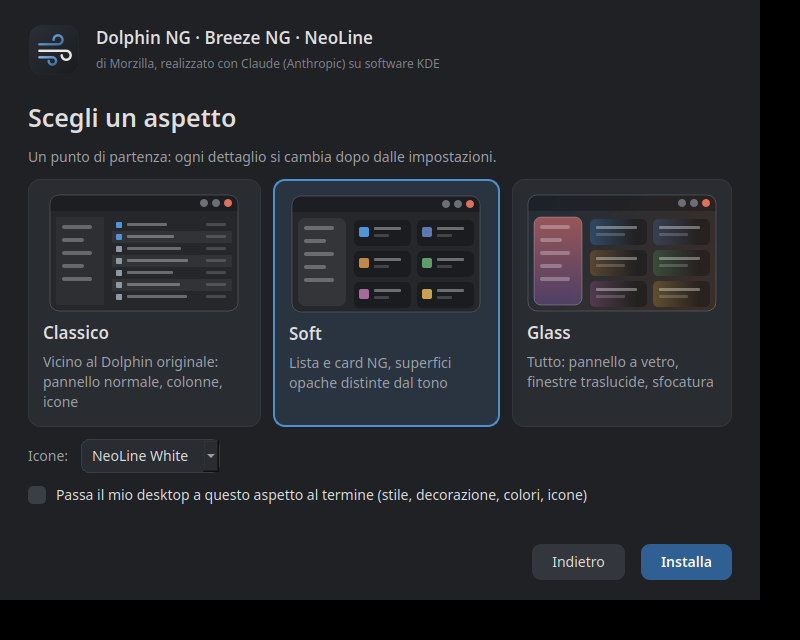
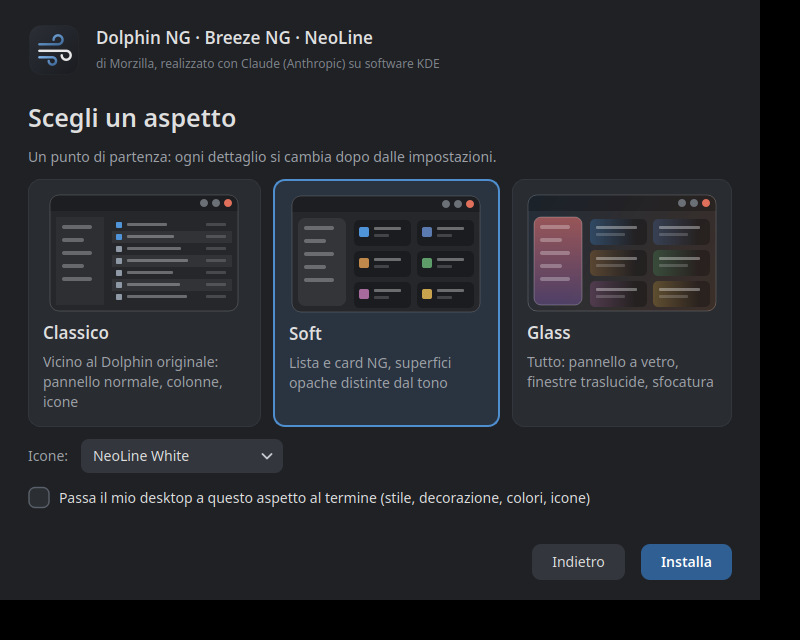
Installer: self-drawn check boxes, stepper and combo chevron (the style-sheet ones were broken)

Changed region(s): [[0.0625, 0.6875, 0.75, 0.8125]]

diff --git a/ng/install-gui.py b/ng/install-gui.py
@@ -100,10 +100,12 @@ QPushButton:disabled { color: #6f737a; background: #292c31; }
 QPushButton#primary { background: #2f5f93; color: white; font-weight: 600; }
 QPushButton#primary:hover { background: #3a71ab; }
 QPushButton#link { background: transparent; color: #7fb4ea; padding: 4px 6px; }
-QCheckBox { spacing: 10px; }
-QCheckBox::indicator { width: 18px; height: 18px; border-radius: 5px; background: #3a3e45; }
-QCheckBox::indicator:checked { background: #3f7fc0; image: none; border: 4px solid #3a3e45; }
-QComboBox, QSpinBox { background: #292c31; border: 1px solid #3a3e45; border-radius: 8px; padding: 5px 10px; }
+QCheckBox { spacing: 10px; background: transparent; }
+QPushButton#step { padding: 0; min-width: 30px; max-width: 30px; min-height: 30px; max-height: 30px; border-radius: 8px; font-size: 13pt; }
+QSpinBox { background: #292c31; border: 1px solid #3a3e45; border-radius: 8px; padding: 5px 6px; }
+QComboBox { background: #33373d; border: 0; border-radius: 8px; padding: 6px 12px; min-width: 150px; }
+QComboBox::drop-down { border: 0; width: 26px; }
+QComboBox::down-arrow { image: none; }
 QComboBox QAbstractItemView { background: #292c31; selection-background-color: #2f5f93; }
 QProgressBar { background: #292c31; border: 0; border-radius: 4px; height: 8px; }
 QProgressBar::chunk { background: #4f8fd0; border-radius: 4px; }
@@ -180,6 +182,57 @@ class Preview(QWidget):
                 p.setBrush(QColor(255, 255, 255, 45)); p.drawRoundedRect(QRectF(tx, cy + 14, cw - (tx - cx) - 22, 3), 1, 1)
         p.setClipping(False)
         p.setBrush(Qt.BrushStyle.NoBrush); p.setPen(QPen(QColor(255, 255, 255, 40), 1)); p.drawRoundedRect(r, 9, 9)
+
+
+class Check(QCheckBox):
+    """A check box that draws itself: a rounded box with a tick, the same under every widget style."""
+
+    def paintEvent(self, _):
+        p = QPainter(self)
+        p.setRenderHint(QPainter.RenderHint.Antialiasing)
+        side = 20
+        box = QRectF(1, (self.height() - side) / 2, side, side)
+        on = self.isChecked()
+        p.setPen(Qt.PenStyle.NoPen if on else QPen(QColor("#5a6069"), 1.4))
+        p.setBrush(QColor("#3f7fc0") if on else QColor("#2b2e33"))
+        p.drawRoundedRect(box, 6, 6)
+        if on:
+            tick = QPainterPath()
+            tick.moveTo(box.left() + 5, box.center().y() + 0.5)
+            tick.lineTo(box.left() + 8.6, box.bottom() - 5.6)
+            tick.lineTo(box.right() - 4.6, box.top() + 6)
+            pen = QPen(QColor("white"), 2.1)
+            pen.setCapStyle(Qt.PenCapStyle.RoundCap); pen.setJoinStyle(Qt.PenJoinStyle.RoundJoin)
+            p.setPen(pen); p.setBrush(Qt.BrushStyle.NoBrush); p.drawPath(tick)
+        p.setPen(QColor("#dfdfdf") if self.isEnabled() else QColor("#6f737a"))
+        p.setFont(self.font())
+        p.drawText(QRectF(side + 11, 0, self.width() - side - 11, self.height()), int(Qt.AlignmentFlag.AlignVCenter | Qt.AlignmentFlag.AlignLeft), self.text())
+        if self.hasFocus():
+            p.setPen(QPen(QColor("#4f8fd0"), 1.2)); p.setBrush(Qt.BrushStyle.NoBrush); p.drawRoundedRect(box.adjusted(-1.5, -1.5, 1.5, 1.5), 7, 7)
+
+    def sizeHint(self):
+        fm = self.fontMetrics()
+        return QSize(fm.horizontalAdvance(self.text()) + 36, max(24, fm.height() + 6))
+
+    minimumSizeHint = sizeHint
+
+    def hitButton(self, pos):
+        return self.rect().contains(pos)
+
+
+class Combo(QComboBox):
+    """A combo box with a chevron drawn by hand (the style sheet cannot draw one without an image file)."""
+
+    def paintEvent(self, e):
+        super().paintEvent(e)
+        p = QPainter(self)
+        p.setRenderHint(QPainter.RenderHint.Antialiasing)
+        pen = QPen(QColor("#c5c9cf"), 1.8)
+        pen.setCapStyle(Qt.PenCapStyle.RoundCap); pen.setJoinStyle(Qt.PenJoinStyle.RoundJoin)
+        p.setPen(pen)
+        cx, cy = self.width() - 16, self.height() / 2
+        path = QPainterPath(); path.moveTo(cx - 4.5, cy - 2); path.lineTo(cx, cy + 2.5); path.lineTo(cx + 4.5, cy - 2)
+        p.drawPath(path)
 
 
 class Card(QFrame):
@@ -270,16 +323,19 @@ class Installer(QWidget):
         self.parts = {}
         for key in ("dolphin", "breeze", "icons"):
             card = Card(); h = QVBoxLayout(card); h.setContentsMargins(16, 12, 16, 12); h.setSpacing(2)
-            box = QCheckBox(t(key)); box.setChecked(True); f = box.font(); f.setBold(True); box.setFont(f)
+            box = Check(t(key)); box.setChecked(True); f = box.font(); f.setBold(True); box.setFont(f)
             card.clicked.connect(box.toggle)
             h.addWidget(box); d = label(t(key + "_d"), "dim"); d.setContentsMargins(28, 0, 0, 0); h.addWidget(d)
             self.parts[key] = box
             v.addWidget(card)
-        self.deps = QCheckBox(t("deps")); self.deps.setChecked(True)
+        self.deps = Check(t("deps")); self.deps.setChecked(True)
         v.addSpacing(6); v.addWidget(self.deps)
         row = QHBoxLayout(); row.addWidget(label(t("jobs"), "dim", False))
         self.jobs = QSpinBox(); self.jobs.setRange(1, 64); self.jobs.setValue(max(1, (os.cpu_count() or 4) // 2))
-        row.addWidget(self.jobs); row.addStretch(); v.addLayout(row)
+        self.jobs.setButtonSymbols(QSpinBox.ButtonSymbols.NoButtons); self.jobs.setAlignment(Qt.AlignmentFlag.AlignCenter); self.jobs.setFixedWidth(56)
+        minus = QPushButton("−"); minus.setObjectName("step"); minus.clicked.connect(self.jobs.stepDown)
+        plus = QPushButton("+"); plus.setObjectName("step"); plus.clicked.connect(self.jobs.stepUp)
+        row.addWidget(minus); row.addWidget(self.jobs); row.addWidget(plus); row.addStretch(); v.addLayout(row)
         v.addStretch(1)
         return w
 
@@ -300,11 +356,11 @@ class Installer(QWidget):
             row.addWidget(card)
         v.addLayout(row)
         r2 = QHBoxLayout(); r2.addWidget(label(t("iconset"), "dim", False))
-        self.iconset = QComboBox()
+        self.iconset = Combo()
         for name, text in (("NeoLine-White", "NeoLine White"), ("NeoLine", "NeoLine"), ("NeoLine-Yellow", "NeoLine Yellow")):
             self.iconset.addItem(text, name)
         r2.addWidget(self.iconset); r2.addStretch(); v.addLayout(r2)
-        self.apply = QCheckBox(t("apply")); v.addWidget(self.apply)
+        self.apply = Check(t("apply")); v.addWidget(self.apply)
         v.addStretch(1)
         self.pick("soft")
         return w
